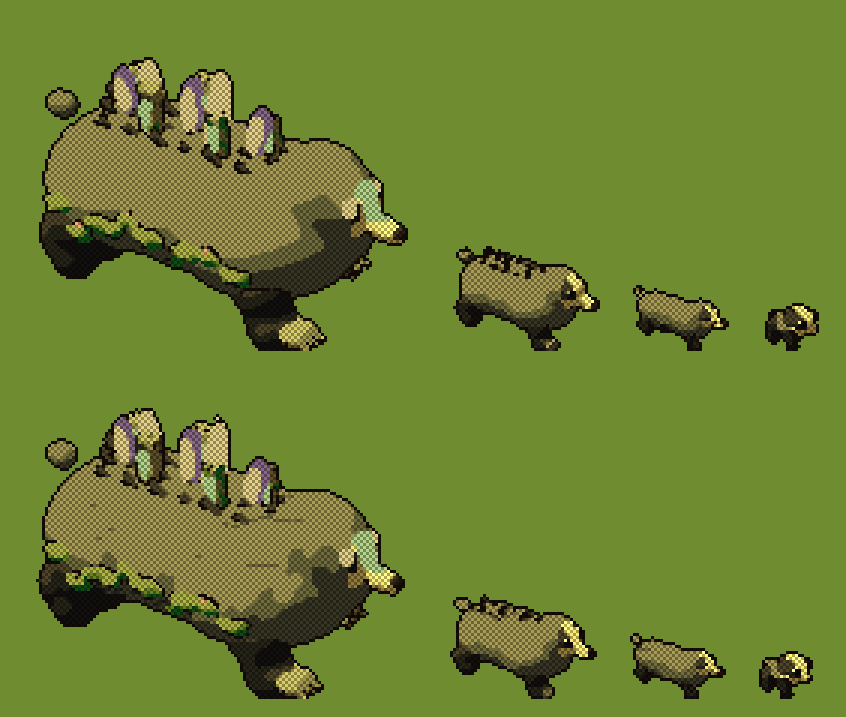
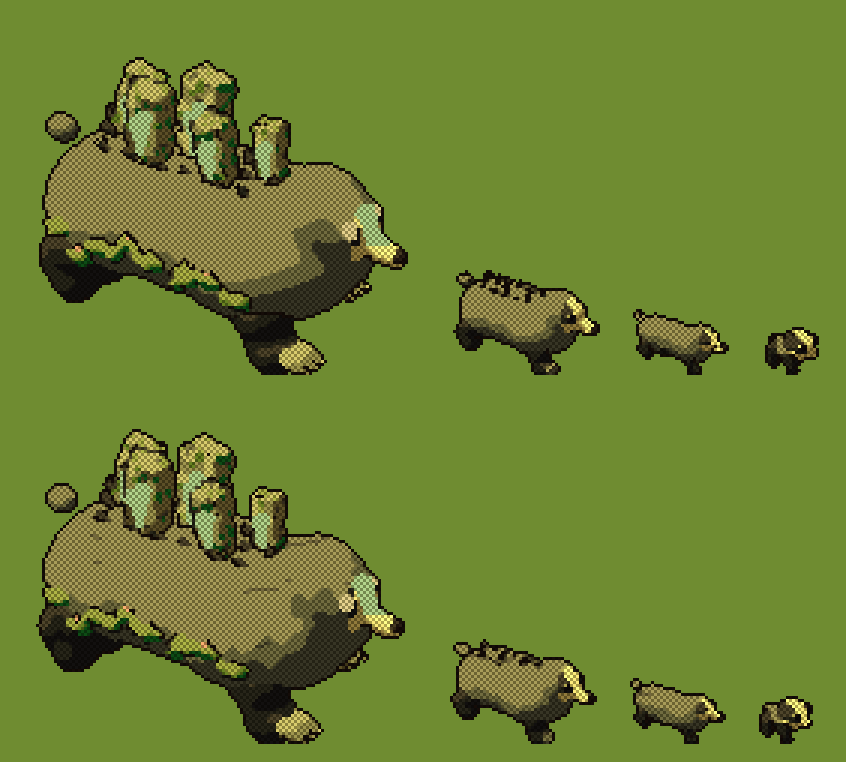
Badger: an evolved legend replaces its old legend feature; bigger stones
Its old legend crystals were drawing over the standing stones. A species whose
genome has a legend level (levels[3]) no longer also grows its old single
legend feature. The stones are taller and broader, so the moor's walking
stones read at game size.

Claude-Session: https://claude.ai/code/session_01CCJ1G3QaUxYK9jSu9176NM

diff --git a/art/creatures3d.js b/art/creatures3d.js
@@ -144,7 +144,7 @@ function evolve3d(m, feats, c) {
       const n = f.count ?? 5, H0 = f.height ?? .32, mat = M[f.mat || "STONE"];
       for (let i = 0; i < n; i++) {
         const t = (f.from ?? .2) + ((f.to ?? .85) - (f.from ?? .2)) * (n > 1 ? i / (n - 1) : .5), b = c.backAt(t), k = (.7 + .3 * Math.sin(Math.PI * (i + .5) / n)) * (.85 + .3 * Math.abs(Math.sin(i * 3.7 + 1.1)));
-        const h = H0 * k, w = h * .32, z = ((i % 2) * 2 - 1) * c.bw * .12, up = v3.norm([(i - (n - 1) / 2) * -.08, 1, z * 1.5]), base = [b[0], b[1] - h * .15, z], mid = v3.add(base, v3.mul(up, h * .5));
+        const h = H0 * k, w = h * .42, z = ((i % 2) * 2 - 1) * c.bw * .12, up = v3.norm([(i - (n - 1) / 2) * -.08, 1, z * 1.5]), base = [b[0], b[1] - h * .15, z], mid = v3.add(base, v3.mul(up, h * .5));
         m.box(mid, [h * .5, w * .5, w * .38], mat, { group: 130 + i, extra: true, dir: up, up: [1, 0, 0], round: w * .12, rough: w * .06, paint: p => spotty(p, 22, .22) ? M.MOSS : spotty(p, 34, .12) ? M.STONED : undefined });
         // its rune: a glowing mark on the face towards us (a vertical stroke with two branches)
         const face = v3.add(mid, [0, 0, w * .4]), R = (a, b2) => v3.add(face, v3.add(v3.mul(up, b2 * h), [a * w, 0, 0]));
@@ -187,7 +187,7 @@ function evolve3d(m, feats, c) {
 // ================= four-legged animals =================
 export function quad3d(S, level, frame, st, facing = "towards") {
   // its evolution at this level (genome levels: its own proportions and parts, not a rescale; q.features: legend features it grows early)
-  const q = { legW: 1, earS: 1, hgt: 1, bw: .3, ...S.q, ...(S.levelQ?.[level] || {}) }, legend = level === 3, juv = level === 1, baby = level === 0, has = f => (legend && S.legend.includes(f)) || (q.features || []).includes(f);
+  const q = { legW: 1, earS: 1, hgt: 1, bw: .3, ...S.q, ...(S.levelQ?.[level] || {}) }, legend = level === 3, juv = level === 1, baby = level === 0, has = f => (legend && !S.levelFeatures?.[3] && S.legend.includes(f)) || (q.features || []).includes(f); // (an evolved legend, its genome levels[3], replaces its old legend feature)
   const feats = S.levelFeatures?.[level];
   const sz = k => S.sizes[k][level]; // its template's size curves (art/genome/templates.js): baby, young, adult, legend
   const m = new Model();

diff --git a/art/genome/species.js b/art/genome/species.js
@@ -24,7 +24,7 @@ export const GENOMES = [
       { body: { len: .86, bw: .42, chest: .16, tuck: .18, legW: 1.6 }, head: { blaze: 1.45 }, features: [{ kind: "mane", from: .1, to: .85, height: .12, count: 16, lean: .95 }, { kind: "claws", size: .14 }] },
       { body: { len: .95, bw: .5, chest: .14, tuck: .16, legW: 1.8, neckAng: -.05 }, head: { blaze: 1.5, blazeGlow: true }, features: [
         { kind: "mane", from: .05, to: .9, height: .12, count: 20, lean: 1 },
-        { kind: "stones", from: .15, to: .8, count: 5, height: .42 },
+        { kind: "stones", from: .15, to: .8, count: 5, height: .62 },
         { kind: "claws", size: .26, mat: "STONE" },
         { kind: "moss", count: 9, size: .1 },
       ] },
